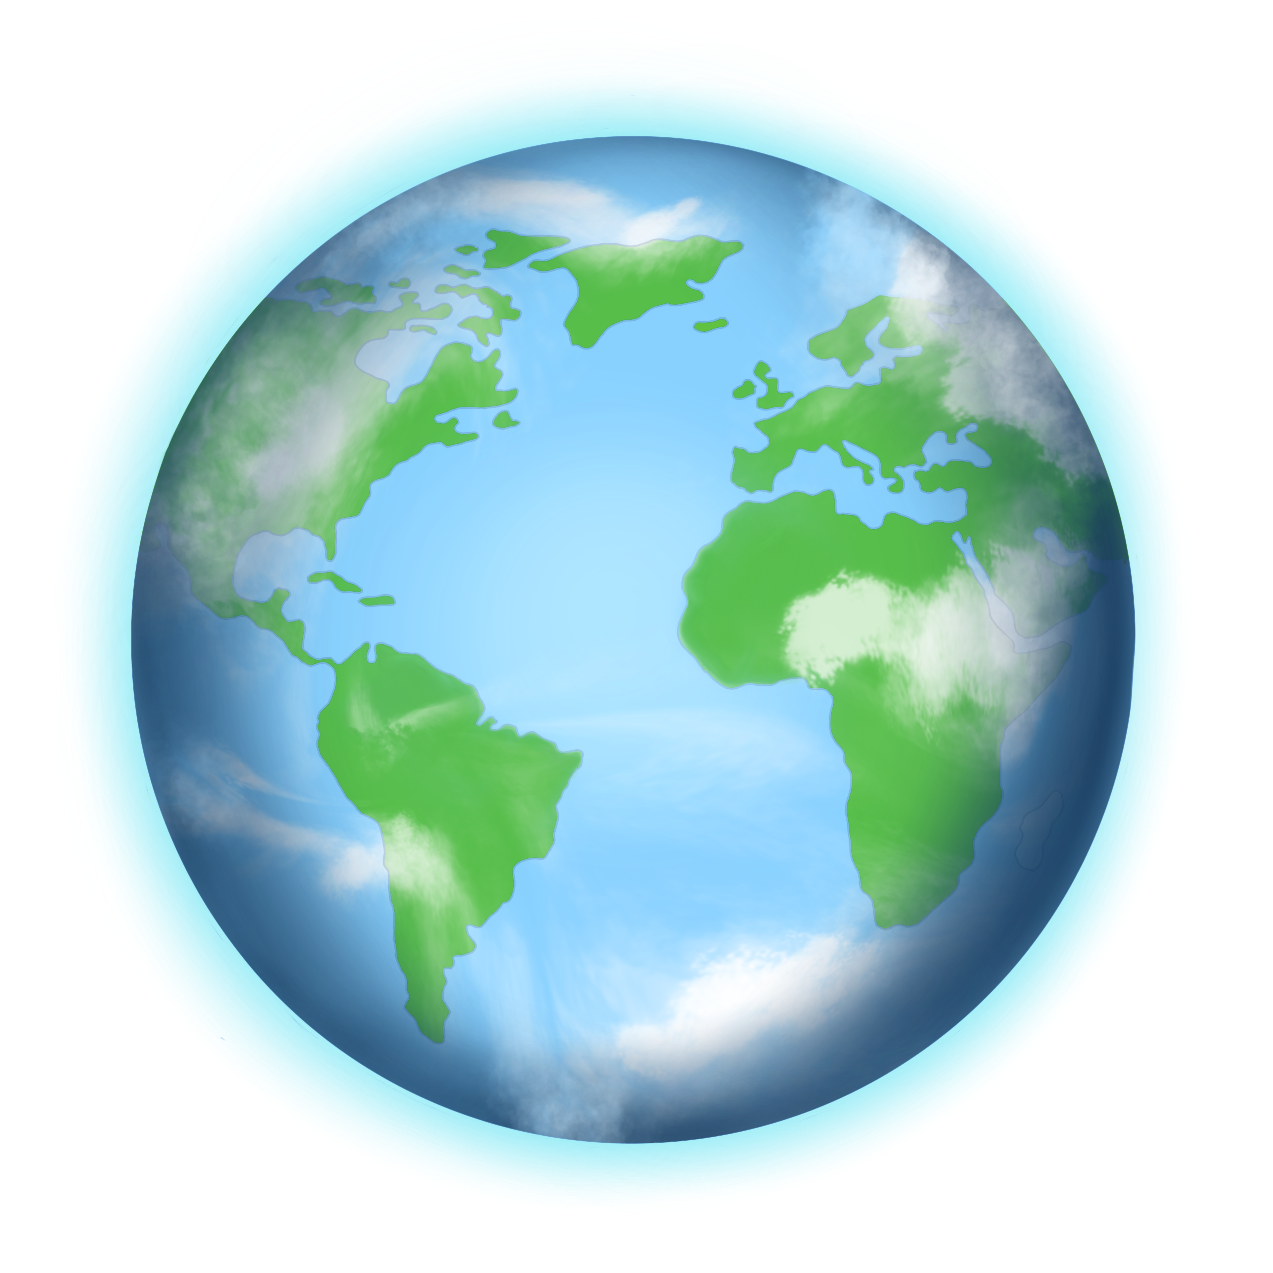
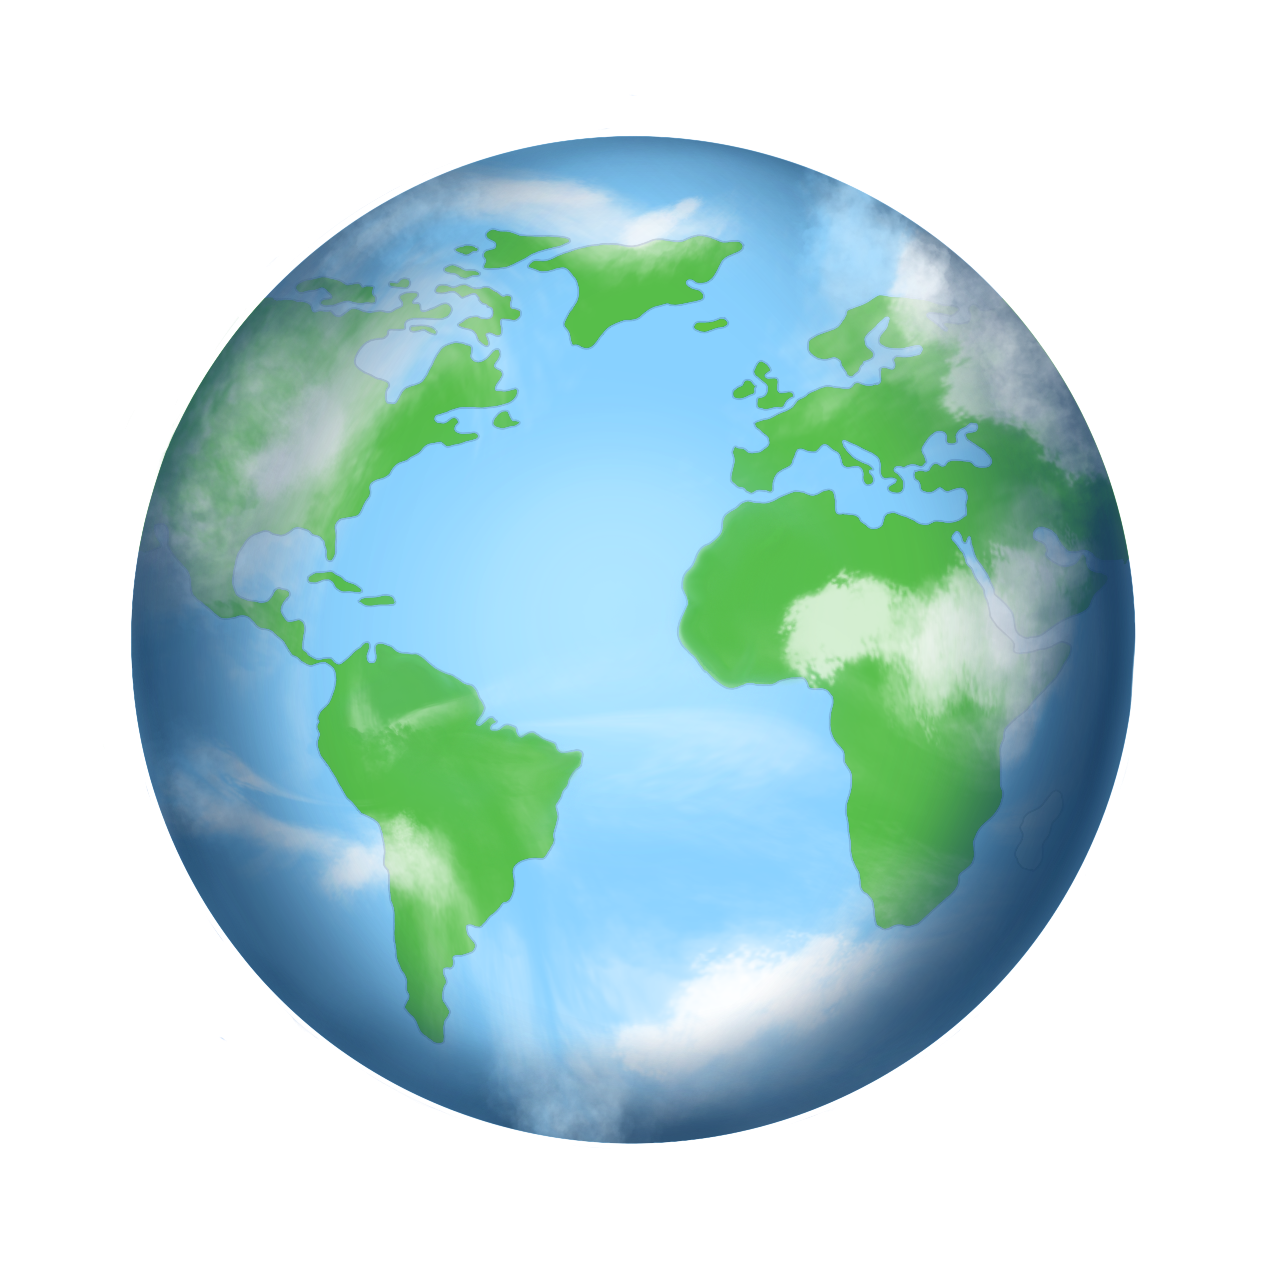
Glow på jordglob

Changed region(s): [[0.0613, 0.0613, 0.9191, 0.9497]]

diff --git a/src/components/Hem.js b/src/components/Hem.js
@@ -7,6 +7,9 @@ import {
 } from "react-bootstrap";
 import "./Stil.css";
 import Jordglob from "../images/jordglob.png";
+import Jordglob1 from "../images/jordglob_bla.png";
+import Jordglob2 from "../images/jordglob_gul.png";
+import Jordglob3 from "../images/jordglob_vit.png";
 import Button1 from "../images/button_koldioxid.png";
 import Button2 from "../images/button_temp.png";
 import Button3 from "../images/button_glaciar.png";
@@ -17,10 +20,15 @@ export default class Hem extends Component {
       <Container fluid className="contain">
         <Row>
           <Col>
+          <div class="fadein">
+            <img id="f3" src={Jordglob1} alt="Jordglob med blått sken"/>
+            <img id="f2" src={Jordglob2} alt="Jordglob med gult sken"/>
+            <img id="f1" src={Jordglob3} alt="Jordglob med vitt sken"/>
+          </div>
             <img
               className="jordgloben"
               src={Jordglob}
-              alt="Bild på en jordglob"
+              alt="Jordglob utan sken"
             />
           </Col>
         </Row>

diff --git a/src/components/Stil.css b/src/components/Stil.css
@@ -118,6 +118,45 @@ h3 {
     margin-right: auto;
 }
 
+.fadein {
+    width: 26vw;
+    display: block;
+    margin-left: auto;
+    margin-right: auto;
+}
+.fadein img {
+    width: 26vw;
+    position:absolute;
+    -webkit-animation-name: fade;
+    -webkit-animation-iteration-count: infinite;
+    -webkit-animation-duration: 12s;
+    animation-name: fade;
+    animation-iteration-count: infinite;
+    animation-duration: 12s;
+}
+
+@-webkit-keyframes fade {
+    0% {opacity: 0;}
+    20% {opacity: 1;}
+    33% {opacity: 1;}
+    53% {opacity: 0;}
+    100% {opacity: 0;}
+}
+@keyframes fade {
+    0% {opacity: 0;}
+    20% {opacity: 1;}
+    33% {opacity: 1;}
+    53% {opacity: 0;}
+    100% {opacity: 0;}
+}
+
+#f2 {
+    -webkit-animation-delay: -8s;
+}
+#f3 {
+    -webkit-animation-delay: -4s;
+}
+
 .linkstyle {
     color: black !important;
 }
